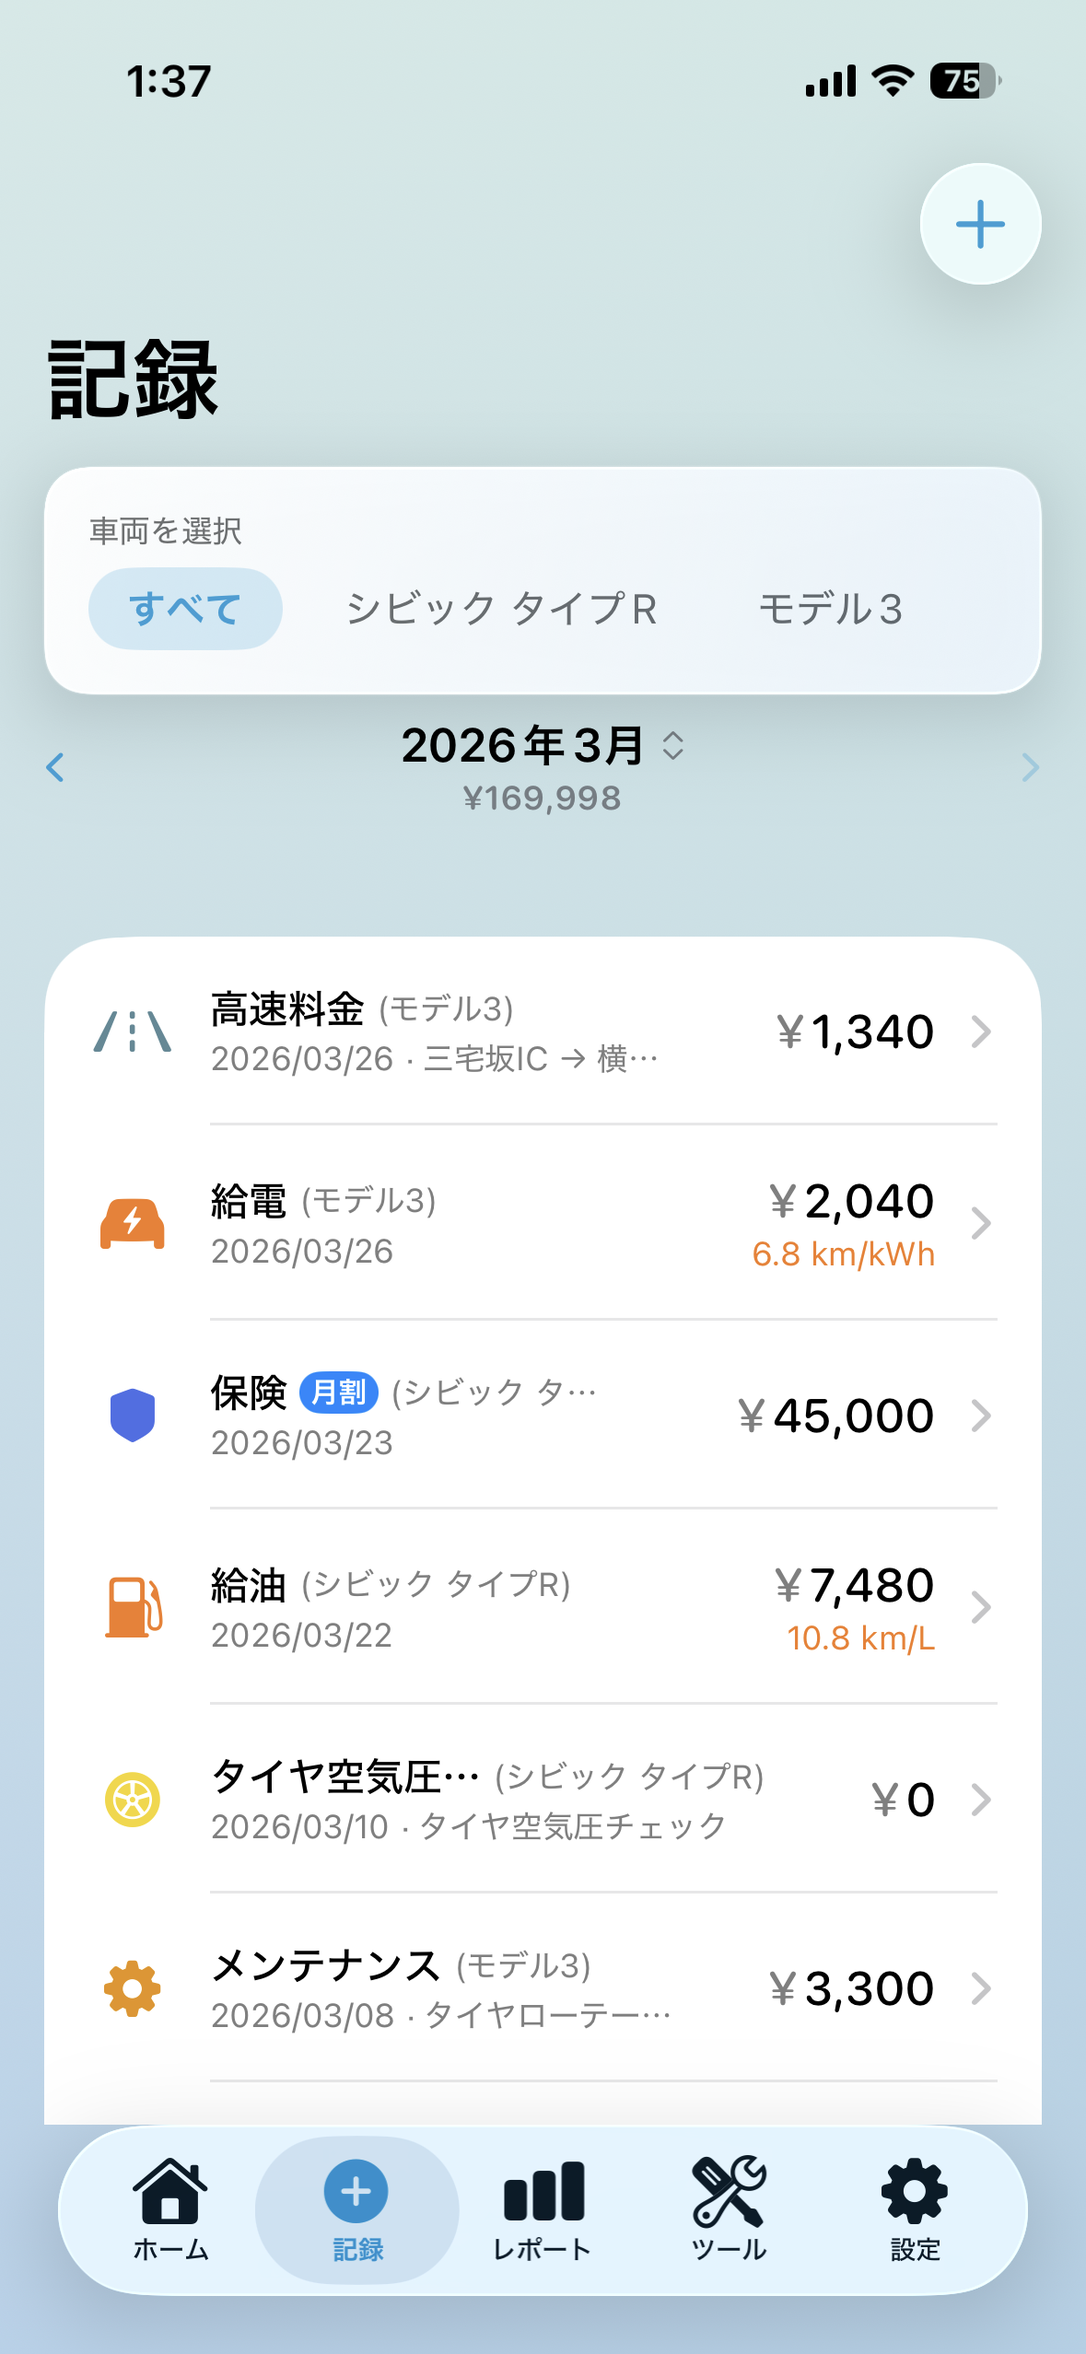
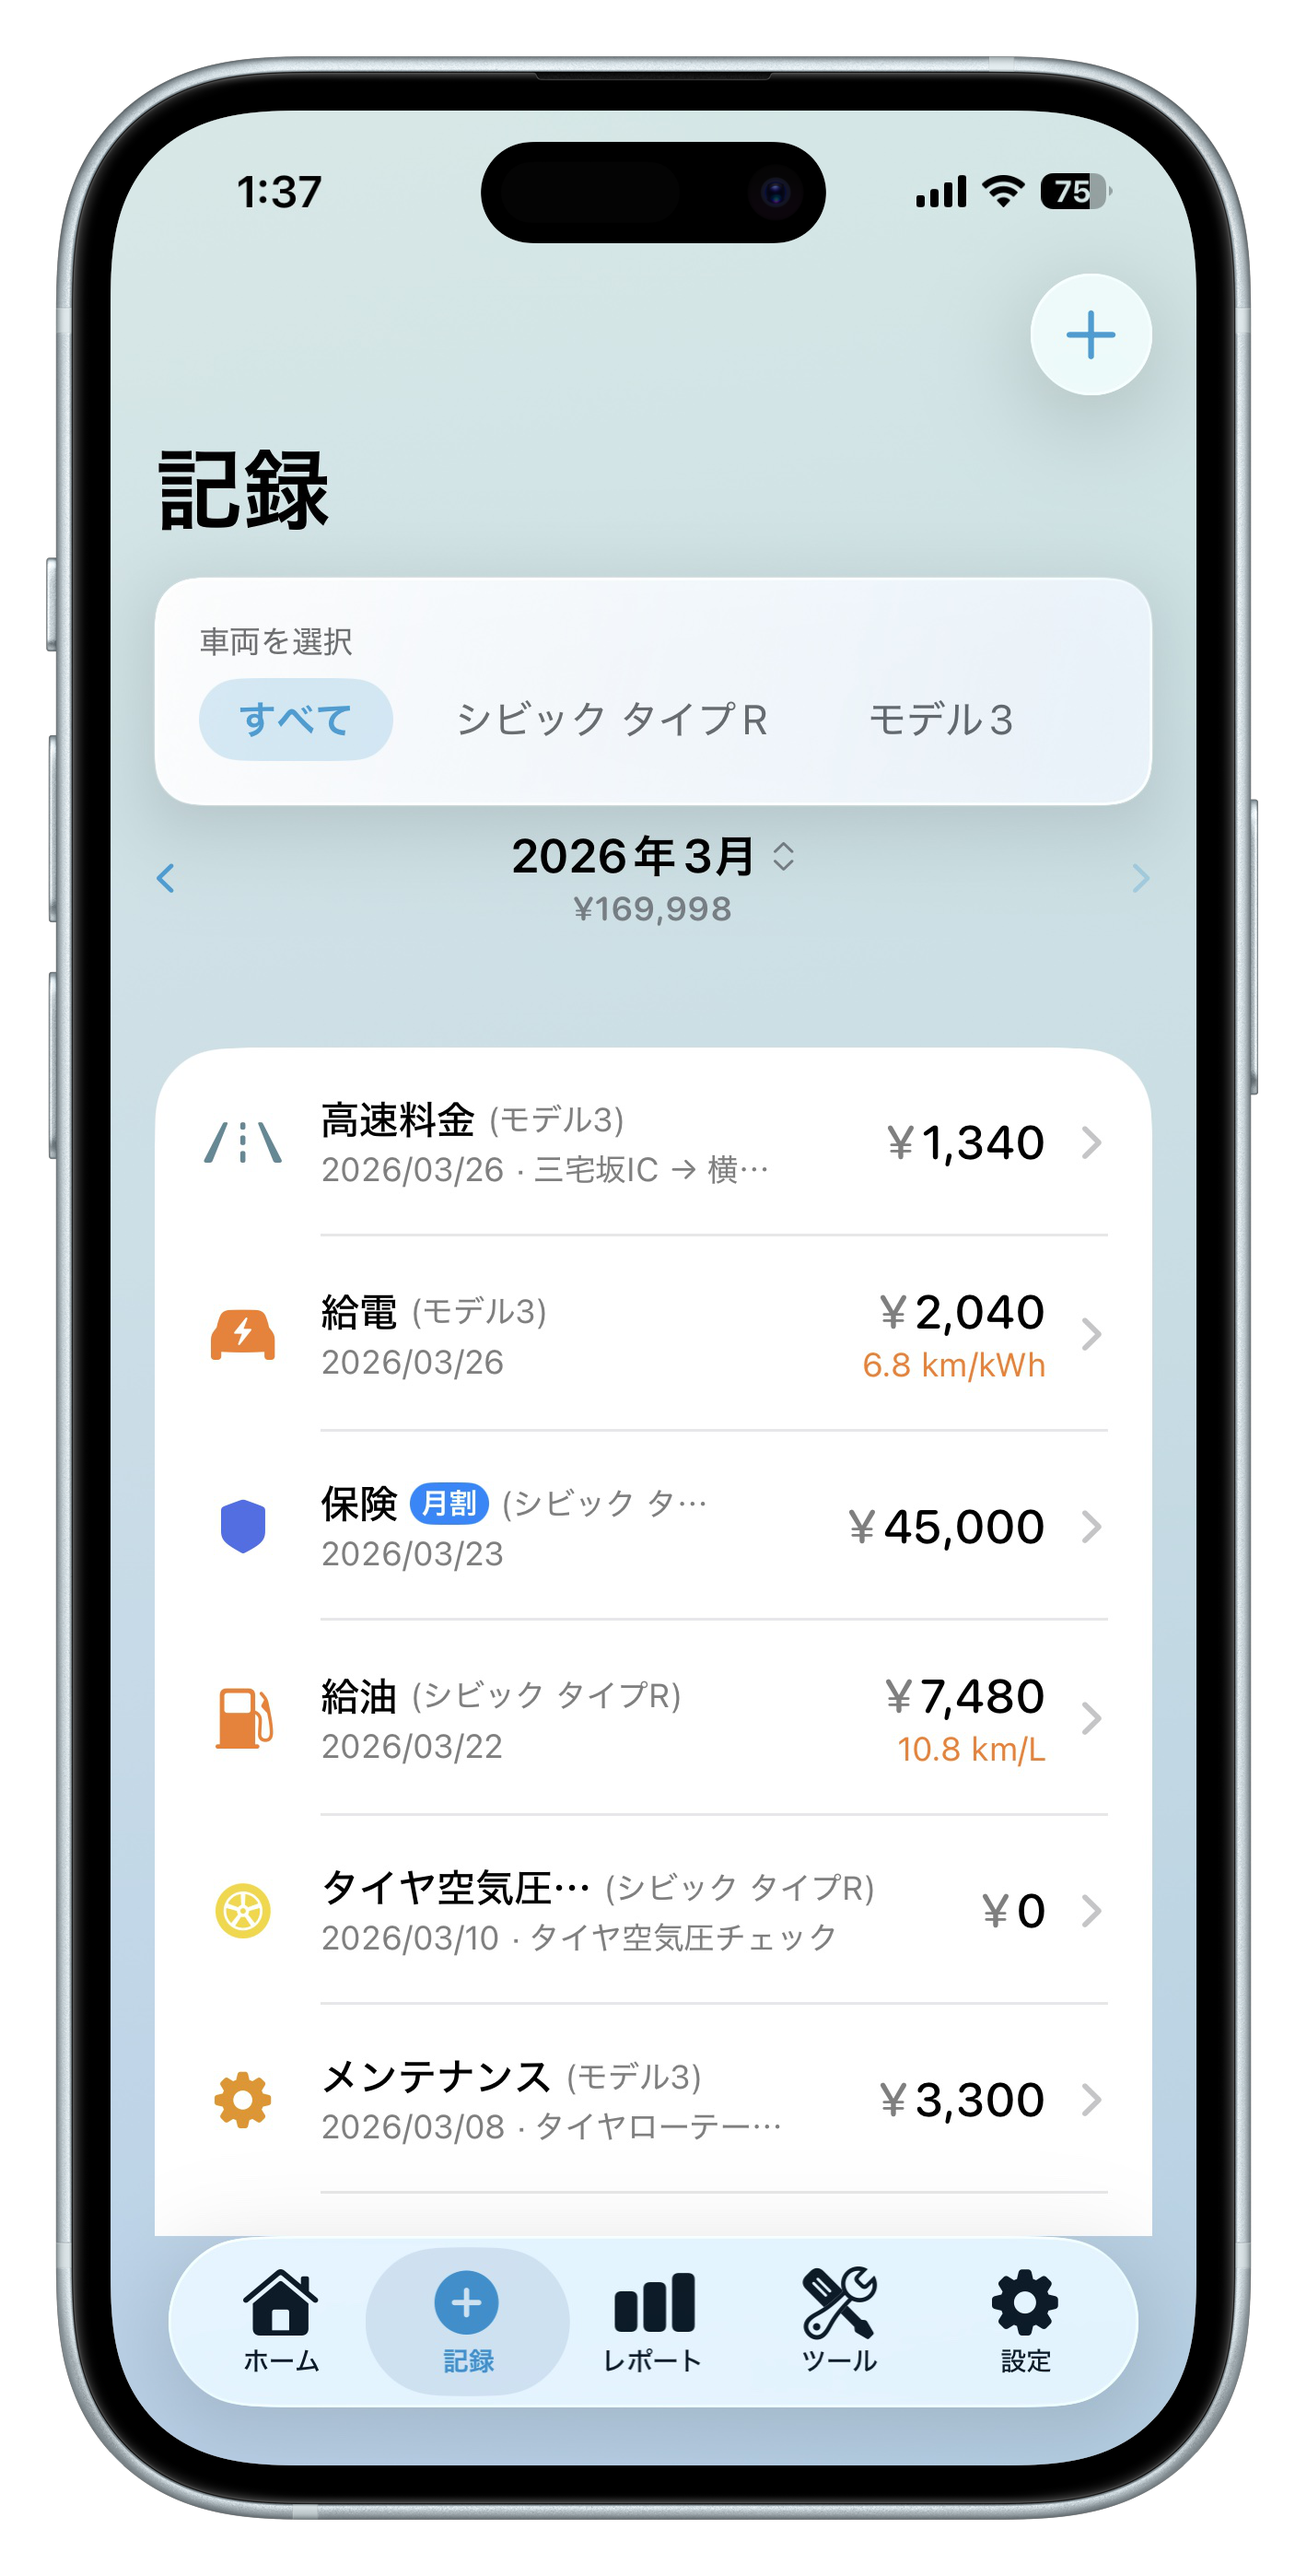
Replace LP screenshots with baked-in iPhone 15 mockups (Mockuphone)
- All 11 LP screenshots regenerated via Mockuphone.com iPhone 15 template
- Hero uses 3D angled variant (home-dark-hero.png, "-left" angle)
- Other sections use portrait (straight) variant
- Total LP image size: ~62MB → ~20MB (Mockuphone optimizes output)

CSS cleanup:
- .phone-frame: remove titanium gradient, Dynamic Island ::before,
  side button ::after, and aspect-ratio (frame is now baked into PNG)
- Keep drop-shadow filter for depth
- .phone-frame.is-hero: slightly wider for angled mockup
- .gallery-item: remove CSS phone frame (baked in), keep drop-shadow

diff --git a/index.html b/index.html
@@ -100,43 +100,20 @@ p{color:var(--ink-2)}
 .dark .btn-disabled .coming{background:rgba(255,255,255,.08);color:var(--dark-muted)}
 
 .hero-phone{position:relative;padding:20px;display:flex;justify-content:center}
-/* ── Premium iPhone frame (titanium-ish) ── */
+/* ── Image-baked iPhone mockup (frame pre-rendered) ── */
 .phone-frame{
   position:relative;
   width:min(320px,100%);
-  aspect-ratio:1125/2436;
-  border-radius:44px;
-  padding:4px;
-  background:
-    linear-gradient(145deg,#3A3F47 0%,#1C1F24 30%,#0B0D10 55%,#1C1F24 75%,#3A3F47 100%);
-  box-shadow:
-    inset 0 0 0 1px rgba(255,255,255,.08),
-    inset 0 0 0 2px rgba(0,0,0,.4),
-    0 1px 0 0 rgba(255,255,255,.05),
-    0 24px 50px -18px rgba(14,14,18,.35),
-    0 12px 24px -8px rgba(14,14,18,.22);
-}
-/* Dynamic Island */
-.phone-frame::before{
-  content:'';
-  position:absolute;top:12px;left:50%;transform:translateX(-50%);
-  width:33%;max-width:120px;aspect-ratio:120/34;
-  background:radial-gradient(ellipse at 70% 50%,#1a1a1d 0%,#000 60%);
-  border-radius:100px;
-  box-shadow:inset 0 1px 2px rgba(255,255,255,.04);
-  z-index:3;
-}
-/* Side buttons (right) - subtle titanium accents */
-.phone-frame::after{
-  content:'';
-  position:absolute;top:22%;right:-2px;width:3px;height:9%;
-  background:linear-gradient(90deg,#2A2E34,#454A52);
-  border-radius:2px;z-index:0;
+  display:flex;
+  justify-content:center;
+  filter:drop-shadow(0 24px 50px rgba(14,14,18,.3)) drop-shadow(0 12px 24px rgba(14,14,18,.18));
 }
 .phone-frame img{
-  width:100%;height:100%;object-fit:cover;
-  border-radius:40px;display:block;
-  position:relative;z-index:1;
+  width:100%;height:auto;display:block;
+}
+/* Hero variant: angled 3D mockup (wider aspect) */
+.phone-frame.is-hero{
+  width:min(380px,100%);
 }
 
 /* License plate accent */
@@ -224,8 +201,8 @@ p{color:var(--ink-2)}
 .gallery-nav svg{width:18px;height:18px}
 .gallery-track{display:flex;gap:20px;overflow-x:auto;scroll-snap-type:x mandatory;scrollbar-width:none;padding:0 clamp(20px,4vw,40px) 20px}
 .gallery-track::-webkit-scrollbar{display:none}
-.gallery-item{flex:0 0 auto;width:min(260px,70vw);scroll-snap-align:start;aspect-ratio:1125/2436;border-radius:36px;padding:6px;background:linear-gradient(135deg,#2A2A30,#0E0E12);box-shadow:0 30px 60px -20px rgba(0,0,0,.5)}
-.gallery-item img{width:100%;height:100%;object-fit:cover;border-radius:30px}
+.gallery-item{flex:0 0 auto;width:min(260px,70vw);scroll-snap-align:start;filter:drop-shadow(0 30px 60px rgba(0,0,0,.45))}
+.gallery-item img{width:100%;height:auto;display:block}
 
 /* ───────── Pricing ───────── */
 .pricing{background:var(--paper);position:relative;overflow:hidden}
@@ -369,8 +346,8 @@ p{color:var(--ink-2)}
         </div>
       </div>
       <div class="hero-phone">
-        <div class="phone-frame">
-          <img src="screenshots/home-dark.png" alt="ノリログのホーム画面">
+        <div class="phone-frame is-hero">
+          <img src="screenshots/home-dark-hero.png" alt="ノリログのホーム画面">
         </div>
       </div>
     </div>
